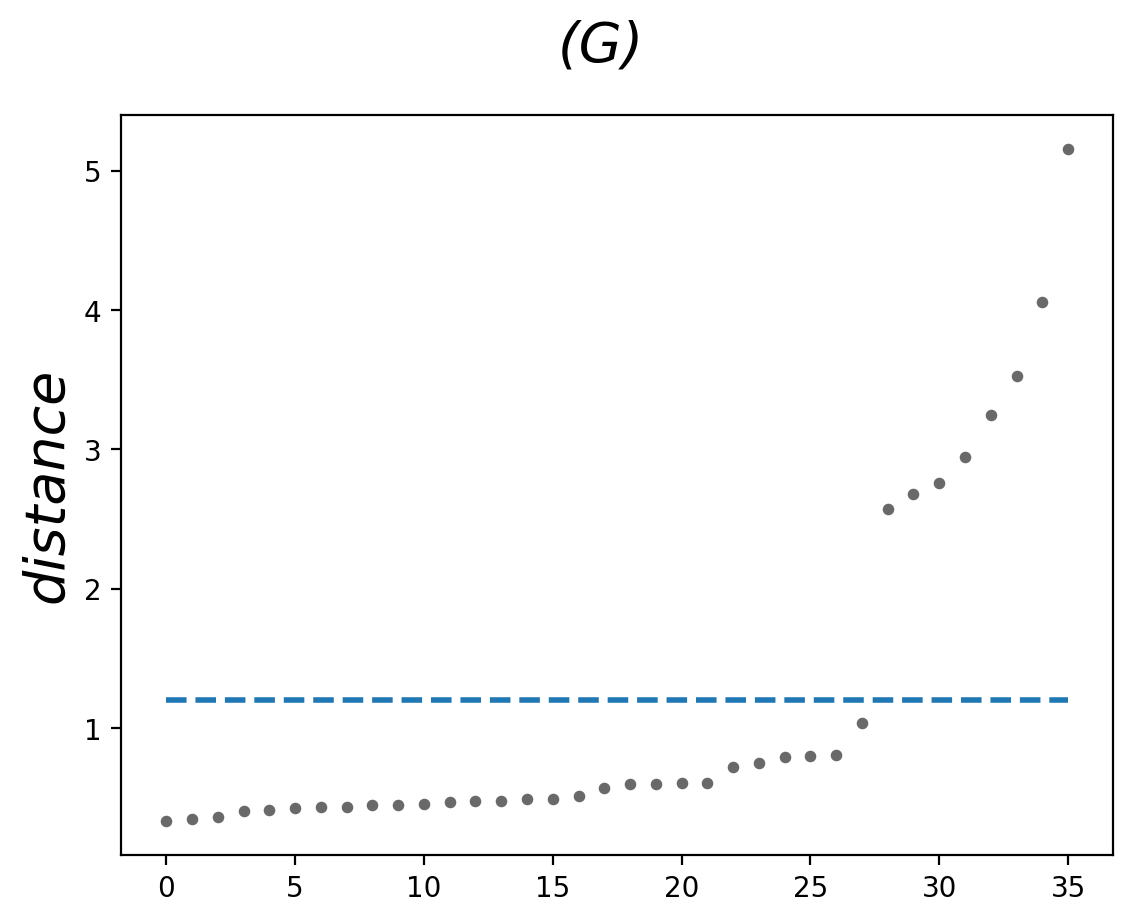
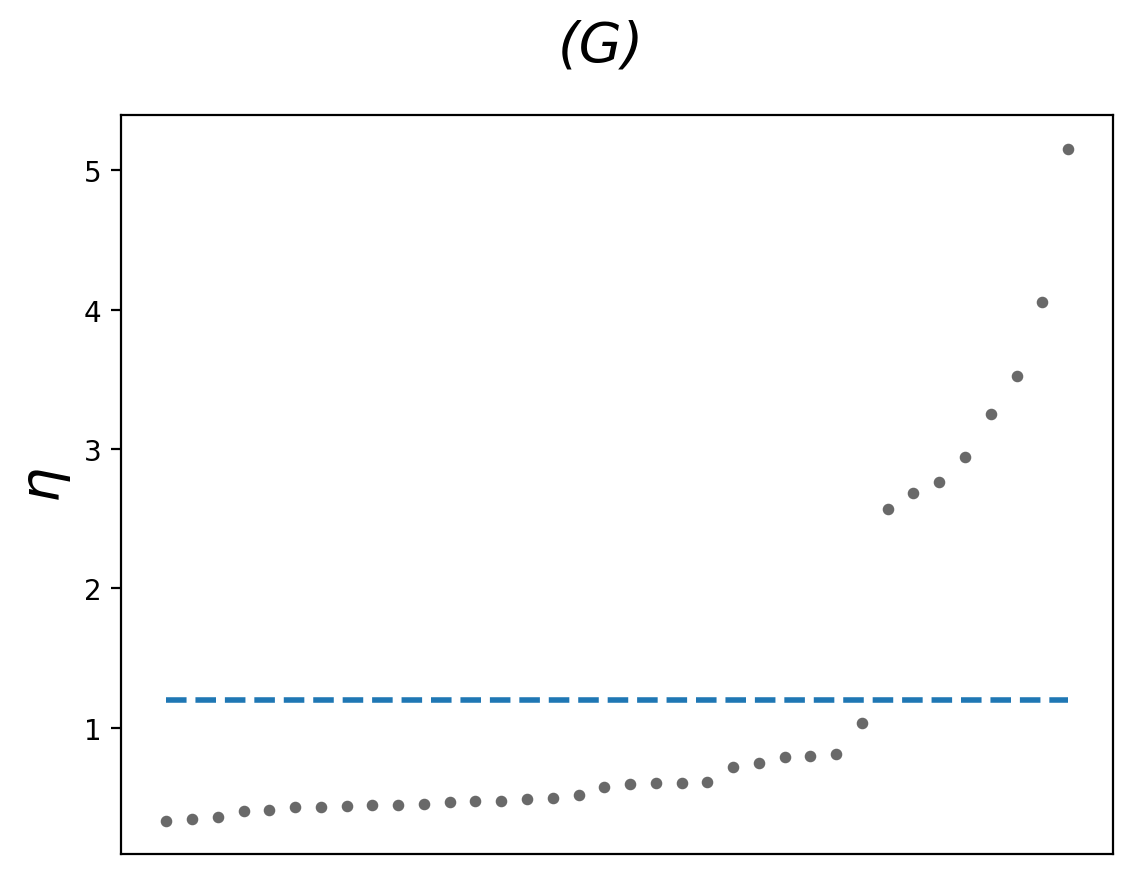
fix outlier

diff --git a/outlier/DOS-IN-opt.py b/outlier/DOS-IN-opt.py
@@ -137,9 +137,9 @@ if __name__ == '__main__':
     fig, ax1 = plt.subplots(1)
     fig.suptitle(f'{figname[DatasetName][1]}', fontstyle='italic',size=20)
     ax1.scatter(list(range(len(dis2cluster))), dis2cluster, s=40, marker='.', c='dimgrey')
-    if DatasetName != 't48k':
-        ax1.plot(list(range(len(dis2cluster))), [1.2]*len(dis2cluster), linestyle='--', linewidth=2)
-    ax1.set_ylabel('distance', fontstyle='italic', size=20)
+    ax1.plot(list(range(len(dis2cluster))), [1.2]*len(dis2cluster), linestyle='--', linewidth=2)
+    ax1.set_ylabel(r'$\eta$', fontstyle='italic', size=20)
+    ax1.set_xticks([])
     plt.show()
     fig.savefig(
         fr'./fig/{args.algorithm}_{DatasetName}_dg.png', dpi=dpi, bbox_inches='tight')
